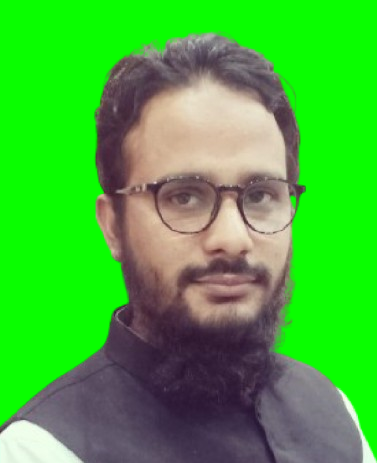
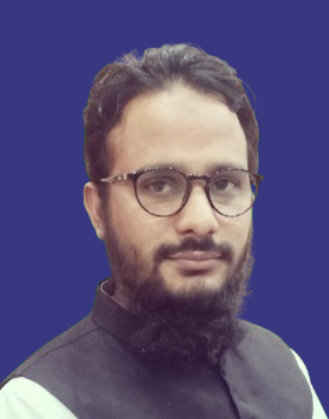
update

diff --git a/engmuhammadnadeembaig/index.html b/engmuhammadnadeembaig/index.html
@@ -154,7 +154,7 @@
 
          <div class="actions">
             <div id="cta">
-               <a id="vcard" rel="noreferrer" download="" target="_blank" aria-label="Save Contact" href="engmuhammadnadeembaig.vcf" style="background-color: rgb(9, 254, 0); width: 90%; padding: 1rem 1.5rem;">
+               <a id="vcard" rel="noreferrer" download="" target="_blank" aria-label="Save Contact" href="engmuhammadnadeembaig.vcf" style="background-color: rgb(57, 55, 128); width: 90%; padding: 1rem 1.5rem;">
                   <div class="icon action">
                      <svg viewBox="0 0 24 24" xmlns="http://www.w3.org/2000/svg" fill-rule="evenodd" clip-rule="evenodd" stroke-linecap="round" stroke-linejoin="round" stroke-miterlimit="2">
                         <path d="M0 0h24v24H0z" fill="none"></path>
@@ -167,7 +167,7 @@
             </div>
             <div class="actionsC">
                <div class="actionBtn">
-                  <a href="tel:03006556473" target="_blank" rel="noopener noreferrer" aria-label="call" style="background-color: rgb(9, 254, 0);">
+                  <a href="tel:03006556473" target="_blank" rel="noopener noreferrer" aria-label="call" style="background-color: rgb(57, 55, 128);">
                      <div class="icon action">
                         <svg xmlns="http://www.w3.org/2000/svg" viewBox="0 0 24 24" fill="none" stroke="#fff" stroke-width="2" stroke-linecap="round" stroke-linejoin="round">
                            <path d="M22 16.92v3a2 2 0 01-2.18 2 19.79 19.79 0 01-8.63-3.07 19.5 19.5 0 01-6-6 19.79 19.79 0 01-3.07-8.67A2 2 0 014.11 2h3a2 2 0 012 1.72 12.84 12.84 0 00.7 2.81 2 2 0 01-.45 2.11L8.09 9.91a16 16 0 006 6l1.27-1.27a2 2 0 012.11-.45 12.84 12.84 0 002.81.7A2 2 0 0122 16.92z"></path>
@@ -181,7 +181,7 @@
             </div>
             <div class="actionsC">
                <div class="actionBtn">
-                  <a target="_blank" rel="noopener noreferrer" aria-label="whatsApp" href="https://wa.me/923064269473" style="background-color: rgb(9, 254, 0);">
+                  <a target="_blank" rel="noopener noreferrer" aria-label="whatsApp" href="https://wa.me/923064269473" style="background-color: rgb(57, 55, 128);">
                      <div class="icon action">
                         <svg viewBox="0 0 24 24" xmlns="http://www.w3.org/2000/svg" fill-rule="evenodd" clip-rule="evenodd" stroke-linejoin="round" stroke-miterlimit="2" fill="#fff">
                            <path d="M2.841 16.664A10.987 10.987 0 014.776 3.725c4.297-4.297 11.273-4.297 15.57 0 4.297 4.297 4.297 11.273 0 15.57-3.522 3.522-8.845 4.157-13.018 1.904l-4.142.784a1.002 1.002 0 01-1.167-1.178l.822-4.141zm1.428 3.078l3.045-.576c.238-.045.483-.002.692.12 3.452 2.024 7.966 1.555 10.926-1.405 3.516-3.516 3.516-9.226 0-12.742s-9.226-3.516-12.742 0a8.992 8.992 0 00-1.432 10.86 1 1 0 01.116.696l-.605 3.047z"></path>
@@ -197,7 +197,7 @@
 			
             <div class="actionsC">
                <div class="actionBtn">
-                  <a href="mailto:engnadeembaig@gmail.com" target="_blank" rel="noopener noreferrer" aria-label="email" style="background-color: rgb(9, 254, 0);">
+                  <a href="mailto:engnadeembaig@gmail.com" target="_blank" rel="noopener noreferrer" aria-label="email" style="background-color: rgb(57, 55, 128);">
                      <div class="icon action">
                         <svg xmlns="http://www.w3.org/2000/svg" width="24" height="24" fill="none" stroke="#fff" stroke-width="2" stroke-linecap="round" stroke-linejoin="round">
                            <path d="M4 4h16c1.1 0 2 .9 2 2v12c0 1.1-.9 2-2 2H4c-1.1 0-2-.9-2-2V6c0-1.1.9-2 2-2z"></path>
@@ -212,7 +212,7 @@
             </div>
 			<div class="actionsC">
            <div class="actionBtn">
-                <a href="tel:03064269473" target="_blank" rel="noopener noreferrer" aria-label="Mobile" style="background-color: rgb(9, 254, 0);">
+                <a href="tel:03064269473" target="_blank" rel="noopener noreferrer" aria-label="Mobile" style="background-color: rgb(57, 55, 128);">
                    <div class="icon action">
                        <svg xmlns="http://www.w3.org/2000/svg" viewBox="0 0 216 216">
                            <path d="M103.57 180.73h8.87v8.87h-8.87v-8.87zm-31.8-67.01c1.07.62 2.25.94 3.41.94 2.25 0 4.47-1.14 5.72-3.24l35.48-59.43c1.87-3.16.85-7.24-2.3-9.12a6.64 6.64 0 00-9.13 2.3L69.47 104.6a6.668 6.668 0 002.3 9.12zm98.32-85.56v159.67c0 14.68-11.94 26.61-26.61 26.61H72.52c-14.68 0-26.61-11.94-26.61-26.61V28.16c0-14.67 11.94-26.61 26.61-26.61h70.96c14.68 0 26.61 11.94 26.61 26.61zm-75.4-8.87c0 2.45 1.99 4.44 4.44 4.44h17.74c2.44 0 4.43-1.98 4.43-4.44s-1.99-4.43-4.43-4.43H99.13c-2.44 0-4.44 1.98-4.44 4.43zm26.62 157.01c0-2.44-1.99-4.43-4.43-4.43H99.13c-2.44 0-4.44 1.99-4.44 4.43v17.74a4.44 4.44 0 004.44 4.43h17.74c2.44 0 4.43-1.99 4.43-4.43V176.3h.01zm31.04-139.26h-88.7v124.19h88.71l-.01-124.19zM71.84 75.61c1.06.61 2.2.9 3.35.9 2.29 0 4.5-1.19 5.75-3.3l12.41-21.29a6.658 6.658 0 00-11.5-6.71l-12.42 21.3a6.653 6.653 0 002.41 9.1z" fill="#fff"></path>
@@ -226,7 +226,7 @@
             </div>
             <div class="actionsC">
                 <div class="actionBtn">
-                   <a href="tel:0312656473" target="_blank" rel="noopener noreferrer" aria-label="Office" style="background-color: rgb(9, 254, 0);">
+                   <a href="tel:0312656473" target="_blank" rel="noopener noreferrer" aria-label="Office" style="background-color: rgb(57, 55, 128);">
                       <div class="icon action">
                          <svg xmlns="http://www.w3.org/2000/svg" viewBox="0 0 216 216">
                             <path d="M168.65 25.77h-59.2c-.14 2.01-.35 4.01-1 5.74l-12.62 34.9c-3.03 8.3-10.99 13.88-19.81 13.88l-2.09-.06-1.31-.21-5.28-.86c-1.75 3.92-4.14 12.3-4.14 28.84 0 16.55 2.39 24.93 4.14 28.85l5.21-.87 2.1-.29h1.37c8.79 0 16.74 5.56 19.83 13.93l12.63 34.93c.66 1.86.93 3.77 1.06 5.67h59.12c13.6 0 24.67-11.07 24.67-24.67V50.44c-.01-13.61-11.07-24.67-24.68-24.67zm-49.01 32.9h49.33c4.54 0 8.22 3.68 8.22 8.22s-3.68 8.22-8.22 8.22h-49.33c-4.54 0-8.22-3.68-8.22-8.22s3.68-8.22 8.22-8.22zm5.8 104.43c-1.65 1.65-3.79 2.47-5.76 2.47-2.14 0-4.28-.82-5.76-2.31-1.65-1.64-2.47-3.77-2.47-5.91s.82-4.27 2.3-5.77c3.29-3.28 8.55-3.12 11.68 0 1.48 1.49 2.46 3.63 2.46 5.77.01 2.13-.81 4.27-2.45 5.75zm0-24.67c-1.49 1.64-3.62 2.47-5.76 2.47-2.31 0-4.28-.84-5.93-2.47-1.48-1.48-2.3-3.45-2.3-5.75 0-2.15.82-4.27 2.3-5.75 3.13-3.13 8.55-3.13 11.68 0 1.48 1.48 2.46 3.6 2.46 5.75.01 2.13-.97 4.27-2.45 5.75zm0-24.67c-1.49 1.64-3.62 2.47-5.76 2.47s-4.28-.84-5.93-2.47c-1.48-1.48-2.3-3.61-2.3-5.75s.82-4.28 2.3-5.76c3.13-3.12 8.55-3.12 11.68 0 1.48 1.48 2.46 3.61 2.46 5.76.01 2.13-.97 4.27-2.45 5.75zm24.67 49.34c-1.49 1.65-3.62 2.47-5.76 2.47-2.15 0-4.28-.82-5.76-2.31-1.65-1.64-2.46-3.77-2.46-5.91s.82-4.27 2.3-5.77c3.13-3.12 8.55-3.12 11.69 0 1.48 1.49 2.46 3.63 2.46 5.77-.01 2.13-.83 4.27-2.47 5.75zm.16-24.67c-1.65 1.64-3.78 2.47-5.92 2.47-2.31 0-4.28-.84-5.93-2.47-1.48-1.48-2.3-3.61-2.3-5.75 0-2.15.82-4.11 2.3-5.75 3.13-3.31 8.55-3.13 11.69 0 1.64 1.64 2.46 3.6 2.46 5.75 0 2.13-.82 4.27-2.3 5.75zm0-24.67c-1.65 1.64-3.78 2.47-5.92 2.47-2.31 0-4.44-.84-5.93-2.47-1.48-1.48-2.3-3.61-2.3-5.75s.82-4.28 2.46-5.76c2.63-2.96 8.38-3.12 11.52 0 1.64 1.48 2.46 3.61 2.46 5.76.01 2.13-.81 4.27-2.29 5.75zm24.51 49.34c-1.65 1.65-3.62 2.47-5.76 2.47s-4.28-.82-5.76-2.31c-1.65-1.64-2.46-3.77-2.46-5.91s.82-4.27 2.46-5.93c2.96-2.95 8.38-2.95 11.52.16 1.48 1.49 2.46 3.63 2.46 5.77 0 2.13-.82 4.27-2.46 5.75zm0-24.67c-1.49 1.64-3.62 2.47-5.76 2.47-2.31 0-4.28-.84-5.93-2.47-1.48-1.48-2.3-3.45-2.3-5.75 0-2.15.82-4.27 2.3-5.75 3.13-3.13 8.55-3.13 11.69 0 1.48 1.48 2.46 3.6 2.46 5.75 0 2.13-.98 4.27-2.46 5.75zm0-24.67c-1.49 1.64-3.62 2.47-5.76 2.47s-4.28-.84-5.93-2.47c-1.48-1.48-2.3-3.61-2.3-5.75s.82-4.28 2.3-5.76c3.29-3.29 8.88-3.12 11.69 0 1.48 1.48 2.46 3.61 2.46 5.76 0 2.13-.98 4.27-2.46 5.75zm-81.8 76.3c.67 1.9.06 4.03-1.53 5.28l-24.09 18.6c-.8.61-1.79.95-2.79.95a4.5 4.5 0 01-1.45-.24c-1.69-.53-40.44-14.28-40.44-106.65 0-92.35 38.75-106.13 40.44-106.66.47-.16.96-.23 1.45-.23 1 0 1.99.33 2.79.96l24.09 18.6c1.16.89 1.8 2.26 1.8 3.65 0 .52-.08 1.08-.27 1.59L80.37 60.77a4.636 4.636 0 01-4.36 3.07c-.26 0-.51-.03-.76-.06L61.82 61.6c-2.15.7-15.07 6.48-15.07 46.4 0 39.55 12.64 45.61 15.11 46.41l13.38-2.2c.26-.05.51-.06.76-.06 1.93 0 3.68 1.22 4.36 3.07l12.62 34.84z" fill="#fff"></path>
@@ -241,7 +241,7 @@
 			
             <div class="actionsC">
                <div class="actionBtn">
-                  <a target="_blank" rel="noopener noreferrer" aria-label="location" href="https://www.google.com/maps/place/30%C2%B013'02.5%22N+71%C2%B030'54.8%22E/@30.2173553,71.5126382,17z/data=!3m1!4b1!4m4!3m3!8m2!3d30.2173553!4d71.5152131?hl=en&entry=ttu&g_ep=EgoyMDI1MDUwNy4wIKXMDSoASAFQAw%3D%3D" style="background-color: rgb(9, 254, 0);">
+                  <a target="_blank" rel="noopener noreferrer" aria-label="location" href="https://www.google.com/maps/place/30%C2%B013'02.5%22N+71%C2%B030'54.8%22E/@30.2173553,71.5126382,17z/data=!3m1!4b1!4m4!3m3!8m2!3d30.2173553!4d71.5152131?hl=en&entry=ttu&g_ep=EgoyMDI1MDUwNy4wIKXMDSoASAFQAw%3D%3D" style="background-color: rgb(57, 55, 128);">
                      <div class="icon action">
                         <svg viewBox="0 0 24 24" xmlns="http://www.w3.org/2000/svg" fill-rule="evenodd" clip-rule="evenodd" stroke-linecap="round" stroke-linejoin="round" fill="none" stroke="#fff" stroke-width="2">
                            <circle cx="12" cy="10" r="3"></circle>
@@ -258,7 +258,7 @@
             <div class="actions secondary">
                <div class="actionsC">
                   <div class="actionBtn secBtn">
-                     <a target="_blank" rel="noopener noreferrer" aria-label="facebook" href="https://www.facebook.com/share/15rWScYE2h/" style="background: rgb(9, 254, 0);">
+                     <a target="_blank" rel="noopener noreferrer" aria-label="facebook" href="https://www.facebook.com/share/15rWScYE2h/" style="background: rgb(57, 55, 128);">
                         <div class="icon">
                            <svg xmlns="http://www.w3.org/2000/svg" fill="#fff" viewBox="0 0 24 24">
                               <path d="M12.001 2.002c-5.522 0-9.999 4.477-9.999 9.999 0 4.99 3.656 9.126 8.437 9.879v-6.988h-2.54v-2.891h2.54V9.798c0-2.508 1.493-3.891 3.776-3.891 1.094 0 2.24.195 2.24.195v2.459h-1.264c-1.24 0-1.628.772-1.628 1.563v1.875h2.771l-.443 2.891h-2.328v6.988C18.344 21.129 22 16.992 22 12.001c0-5.522-4.477-9.999-9.999-9.999z"></path>
@@ -269,7 +269,7 @@
                </div>
                <div class="actionsC">
                   <div class="actionBtn secBtn">
-                     <a target="_blank" rel="noopener noreferrer" aria-label="TikTok" href="https://www.tiktok.com/@engnadeembaig?_t=ZS-8w1zAzkhKFu&amp;_r=1" style="background: rgb(9, 254, 0);">
+                     <a target="_blank" rel="noopener noreferrer" aria-label="TikTok" href="https://www.tiktok.com/@engnadeembaig?_t=ZS-8w1zAzkhKFu&amp;_r=1" style="background: rgb(57, 55, 128);">
                         <div class="icon">
                            <svg xmlns="http://www.w3.org/2000/svg" viewBox="0 0 24 24">
                               <path fill="#fff" d="M16.27 9.22a7.86 7.86 0 004.58 1.47V7.4a4.64 4.64 0 01-.96-.1v2.59a7.86 7.86 0 01-4.58-1.47v6.7a6.08 6.08 0 01-6.08 6.08 6.05 6.05 0 01-3.39-1.03A6.06 6.06 0 0010.2 22a6.08 6.08 0 006.08-6.07V9.22zm1.19-3.32a4.58 4.58 0 01-1.2-2.68V2.8h-.9a4.6 4.6 0 002.1 3.1zm-9.5 11.7a2.78 2.78 0 013.06-4.33V9.9a6.13 6.13 0 00-.96-.06v2.62a2.78 2.78 0 00-3.62 2.65c0 1.08.62 2.02 1.53 2.48z"></path>
@@ -282,7 +282,7 @@
                </div>
                <div class="actionsC">
                   <div class="actionBtn secBtn">
-                     <a target="_blank" rel="noopener noreferrer" aria-label="instagram" href="https://www.instagram.com/engnadeembaig?igsh=cDBvMDljbDFsNW9j" style="background: rgb(9, 254, 0);">
+                     <a target="_blank" rel="noopener noreferrer" aria-label="instagram" href="https://www.instagram.com/engnadeembaig?igsh=cDBvMDljbDFsNW9j" style="background: rgb(57, 55, 128);">
                         <div class="icon">
                            <svg xmlns="http://www.w3.org/2000/svg" fill="#fff" viewBox="0 0 24 24">
                               <path d="M11.999 7.377a4.623 4.623 0 100 9.248 4.623 4.623 0 000-9.248zm0 7.627a3.004 3.004 0 110-6.008 3.004 3.004 0 010 6.008z"></path>
@@ -295,7 +295,7 @@
                </div>
                <div class="actionsC">
                   <div class="actionBtn secBtn">
-                     <a target="_blank" rel="noopener noreferrer" aria-label="youtube" href="https://www.youtube.com/@EngMuhammadNadeembaig473" style="background: rgb(9, 254, 0);">
+                     <a target="_blank" rel="noopener noreferrer" aria-label="youtube" href="https://www.youtube.com/@EngMuhammadNadeembaig473" style="background: rgb(57, 55, 128);">
                         <div class="icon">
                            <svg xmlns="http://www.w3.org/2000/svg" fill="#fff" viewBox="0 0 24 24">
                               <path d="M21.593 7.203a2.506 2.506 0 00-1.762-1.766C18.265 5.007 12 5 12 5s-6.264-.007-7.831.404a2.56 2.56 0 00-1.766 1.778c-.413 1.566-.417 4.814-.417 4.814s-.004 3.264.406 4.814c.23.857.905 1.534 1.763 1.765 1.582.43 7.83.437 7.83.437s6.265.007 7.831-.403a2.515 2.515 0 001.767-1.763c.414-1.565.417-4.812.417-4.812s.02-3.265-.407-4.831zM9.996 15.005l.005-6 5.207 3.005-5.212 2.995z"></path>
